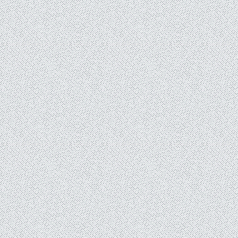
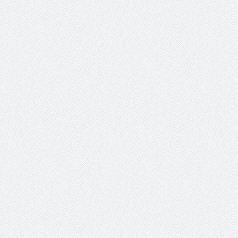
color scheme updated

Changed region(s): [[0.0, 0.0, 1.0, 1.0]]

diff --git a/css/style.css b/css/style.css
@@ -214,7 +214,7 @@ nav ul li:last-child {
 }
 
 nav ul li a:hover {
-    color: #202020;
+    color: #739fcd;
 }
 
 nav ul li a {
@@ -228,7 +228,7 @@ nav ul li a {
 }
 
 nav ul li a.active {
-    color: #202020;
+    color: #739fcd;
 }
 
 #mobile-nav {
@@ -258,16 +258,15 @@ nav ul li a.active {
 header {
     background: #ffffff;
     height: 60px;
-    border-bottom: 1px solid #616167;
+    border-bottom: 1px solid #6d8cac;
 }
 
 #logo {
     float: left;
-    font-family: 'Source Sans Pro', sans-serif;
-    font-size: 25px;
-    font-weight: 500;
-    color: #777777;
-    margin-top: 10px;
+    background: url(../images/logo.png);
+    width: 258px;
+    height: 36px;
+    margin-top: 12px;
 }
 
 #top-half {
@@ -277,6 +276,7 @@ header {
 }
 
 #slide-content {
+    background: url(../images/slide-pattern.png);
     float: left;
     margin: 30px 0px 0px 0px;
     z-index: 99999999;
@@ -287,7 +287,7 @@ header {
     -moz-border-radius: 7px;
     border-radius: 7px;
     background-color: #fff;
-    border: 4px solid #505050;
+    border: 4px solid #5884ae;
     text-align: center;
 }
 
@@ -295,8 +295,8 @@ header {
     font-family: 'Source Sans Pro', sans-serif;
     font-size: 70px;
     line-height: 74px;
-    font-weight: 200;
-    color: #4a4552;
+    font-weight: 300;
+    color: #739fcd;
     width: 690px;
     margin: 60px auto;
 }
@@ -304,12 +304,12 @@ header {
 #mid-hr {
     width: 100%;
     height: 1px;
-    background: #aaaaaa;
+    background: #a2c1e1;
 }
 
 #bottom-half {
     overflow: hidden;
-    border-top: 1px solid #616167;
+    border-top: 1px solid #7fa3c8;
     border-bottom: 1px solid #ffffff;
     background: url(../images/bottom-pattern.png) repeat;
 }
@@ -341,7 +341,7 @@ header {
     background: #ffffff;
     margin-left: 15px;
     border: 1px solid #c6c6c6;
-    border-top: 4px solid #505050;
+    border-top: 4px solid #739fcd;
     border-radius: 5px;
     overflow: hidden;
     -webkit-transition: all .2s ease-out;
@@ -355,7 +355,7 @@ header {
     letter-spacing: 1px;
     text-decoration: none;
     border-bottom: 1px solid #d5d5d5;
-    color: #7f7f83;
+    color: #739fcd;
     font-family: 'Source Sans Pro', sans-serif;
     font-weight: 300;
     padding: 15px 5px 15px 25px;
@@ -429,6 +429,8 @@ h3.location {
 
 .about-wdgt img {
     margin: 15px 0px 0px 16px;
+    border-radius: 5px;
+    -moz-border-radius: 5px;
 }
 
 .contact-btn {
@@ -447,14 +449,16 @@ h3.location {
     margin: 30px auto;
     width: 70%;
     text-align: center;
-    color: #444;
-    border: 1px solid #D0D0D0;
-    background-image: -moz-linear-gradient(#EDEDED, #E1E1E1);
-    background-image: -webkit-gradient(linear, 0% 0%, 0% 100%, from(#E1E1E1), to(#EDEDED));
-    background-image: -webkit-linear-gradient(#EDEDED, #E1E1E1);
-    background-image: -o-linear-gradient(#EDEDED, #E1E1E1);
-    text-shadow: 1px 1px 1px white;
-    background-color: #E1E1E1;
+    color: #fff;
+    border: 1px solid #739FCD;
+    background: #739fcd; /* Old browsers */
+    background: -moz-linear-gradient(top,  #739fcd 0%, #6c98c5 100%); /* FF3.6+ */
+    background: -webkit-gradient(linear, left top, left bottom, color-stop(0%,#739fcd), color-stop(100%,#6c98c5)); /* Chrome,Safari4+ */
+    background: -webkit-linear-gradient(top,  #739fcd 0%,#6c98c5 100%); /* Chrome10+,Safari5.1+ */
+    background: -o-linear-gradient(top,  #739fcd 0%,#6c98c5 100%); /* Opera 11.10+ */
+    background: -ms-linear-gradient(top,  #739fcd 0%,#6c98c5 100%); /* IE10+ */
+    background: linear-gradient(to bottom,  #739fcd 0%,#6c98c5 100%); /* W3C */
+    filter: progid:DXImageTransform.Microsoft.gradient( startColorstr='#739fcd', endColorstr='#6c98c5',GradientType=0 ); /* IE6-9 */
 }
 
 .follow-btn {
@@ -473,19 +477,21 @@ h3.location {
     margin: 25px auto;
     width: 80%;
     text-align: center;
-    color: #444;
-    border: 1px solid #D0D0D0;
-    background-image: -moz-linear-gradient(#EDEDED, #E1E1E1);
-    background-image: -webkit-gradient(linear, 0% 0%, 0% 100%, from(#E1E1E1), to(#EDEDED));
-    background-image: -webkit-linear-gradient(#EDEDED, #E1E1E1);
-    background-image: -o-linear-gradient(#EDEDED, #E1E1E1);
-    text-shadow: 1px 1px 1px white;
-    background-color: #E1E1E1;
+    color: #fff;
+    border: 1px solid #739FCD;
+    background: #739fcd; /* Old browsers */
+    background: -moz-linear-gradient(top,  #739fcd 0%, #6c98c5 100%); /* FF3.6+ */
+    background: -webkit-gradient(linear, left top, left bottom, color-stop(0%,#739fcd), color-stop(100%,#6c98c5)); /* Chrome,Safari4+ */
+    background: -webkit-linear-gradient(top,  #739fcd 0%,#6c98c5 100%); /* Chrome10+,Safari5.1+ */
+    background: -o-linear-gradient(top,  #739fcd 0%,#6c98c5 100%); /* Opera 11.10+ */
+    background: -ms-linear-gradient(top,  #739fcd 0%,#6c98c5 100%); /* IE10+ */
+    background: linear-gradient(to bottom,  #739fcd 0%,#6c98c5 100%); /* W3C */
+    filter: progid:DXImageTransform.Microsoft.gradient( startColorstr='#739fcd', endColorstr='#6c98c5',GradientType=0 ); /* IE6-9 */
 }
 
 footer {
     height: 50px;
-    background: #f5f5f5;
+    background: #ffffff;
     border-top: 1px solid #cccccc;
     bottom:0;
     width:100%;
@@ -550,7 +556,7 @@ p.jtwt_tweet_text {
 }
 
 p.jtwt_tweet_text a {
-    color: #CC643E;
+    color: #739fcd;
     text-decoration: none;
 }
 	

diff --git a/index.html b/index.html
@@ -32,7 +32,7 @@
 				<div class="site-container">
 					
 					<a href="/">
-						<h1 id="logo">VELOCITY ARBITRAGE</h1>
+						<h1 id="logo"></h1>
 					</a>
 					
 					<nav>
@@ -146,7 +146,7 @@
 				$('#twitter').jtwt({
 				
 					username: 'kruz',
-					count: 4,
+					count: 5,
 					image_size: 24
 				
 				});
